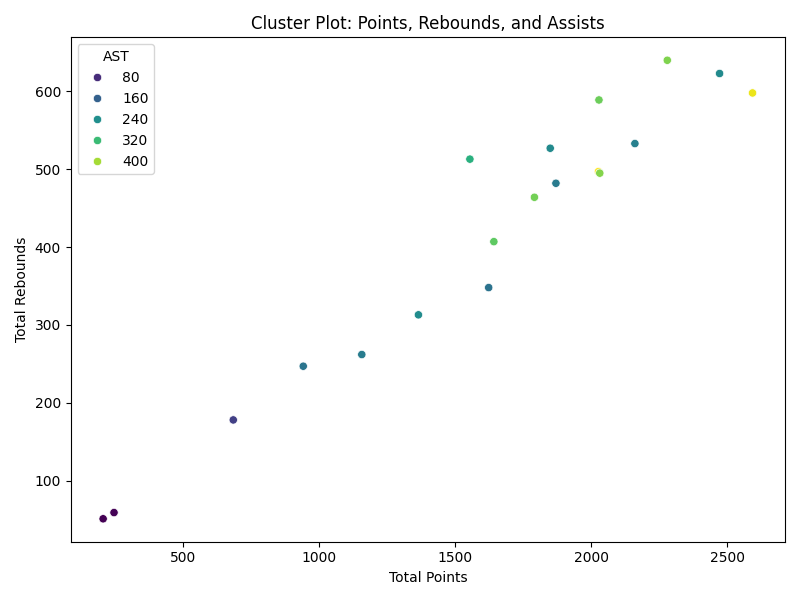
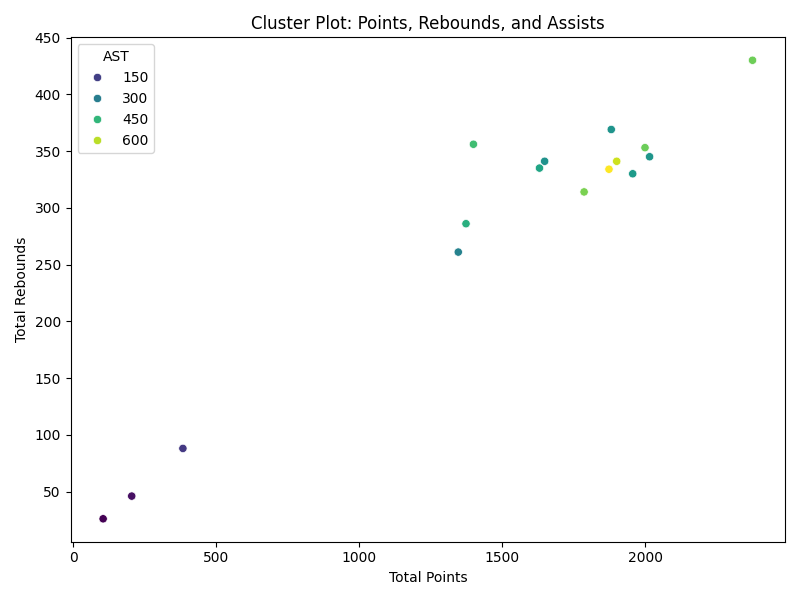
Testing (Stephen Curry)

diff --git a/Data_collection.py b/Data_collection.py
@@ -15,7 +15,7 @@ def fetch_player_stats_and_save(player_id, output_file="player_stats.csv"):
     return output_file
 
 # Testing the function with a player's name
-player_name = "Kevin Durant"
+player_name = "Stephen Curry"
 
 # Get Player ID from name
 player_id = get_player_id_from_name(player_name)
